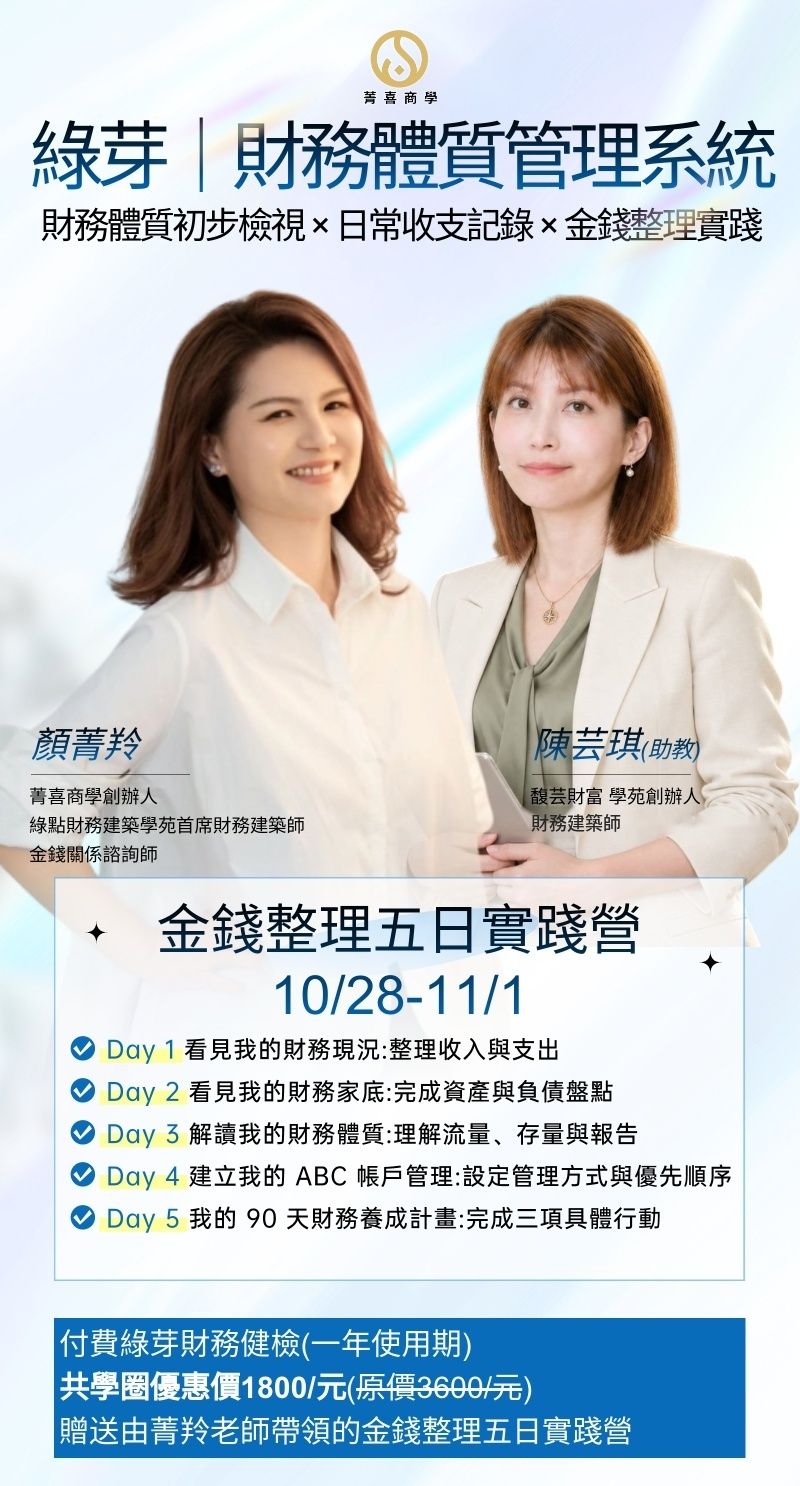
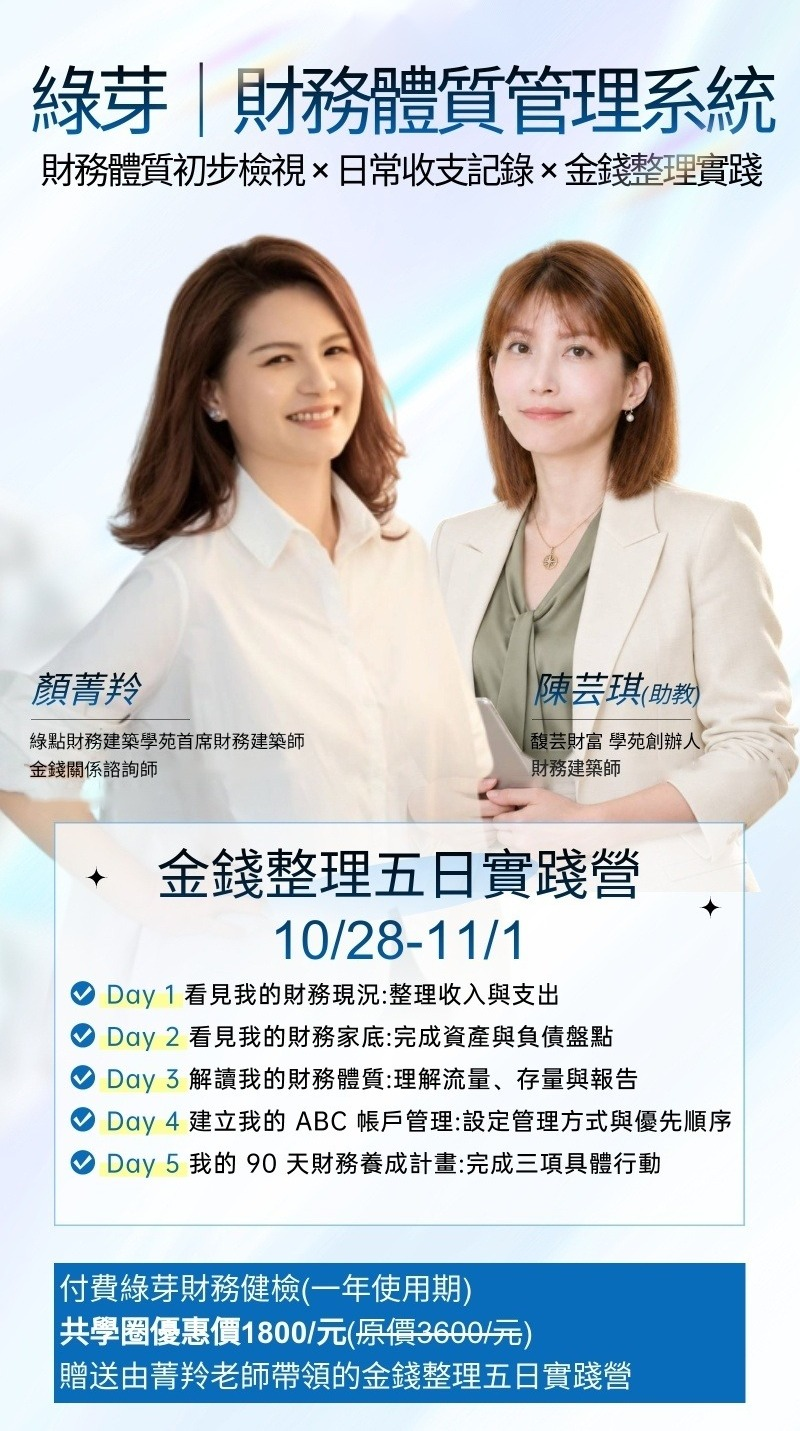
綠芽報名頁：電腦版雙欄版面、專業色系、移除菁喜商學
Claude-Session: https://claude.ai/code/session_013G9kf4SW9SDVPWkSK1dY9N

diff --git a/greensprout/index.html b/greensprout/index.html
@@ -10,48 +10,67 @@
 <meta property="og:description" content="共學圈優惠價 NT$1,800（原價 NT$3,600），再贈送《金錢整理五日實踐營》10/28–11/1。傳「綠芽」給芸琪，領優惠碼 🌱">
 <meta property="og:image" content="https://angie26501-lgtm.github.io/business/greensprout/poster.jpg">
 <meta property="og:url" content="https://angie26501-lgtm.github.io/business/greensprout/">
-<meta name="theme-color" content="#1f4e79">
+<meta name="theme-color" content="#17375e">
 <style>
-:root{--navy:#1b3f66;--blue:#1f6fb2;--sky:#eaf3fb;--g:#2f6b3f;--gl:#e8f3ea;--cream:#fbfaf6;--gold:#c99a3f;--line:#06c755;--ink:#22303c;--mut:#667684;--r:18px}
+:root{--navy:#17375e;--blue:#25507f;--sky:#eef2f7;--g:#2e6e52;--gl:#e9f1ec;--cream:#f7f5ef;--gold:#b08a3e;--line:#1f8a52;--lined:#16683d;--ink:#1f2a36;--mut:#5f6b78;--bd:#e2e7ee;--r:16px}
 *{box-sizing:border-box}
 html{scroll-behavior:smooth}
-body{margin:0;background:linear-gradient(180deg,#f2f7fc 0,#fbfaf6 520px);color:var(--ink);font-family:"Noto Sans TC","PingFang TC","Microsoft JhengHei",system-ui,sans-serif;line-height:1.7;-webkit-text-size-adjust:100%;padding-bottom:92px}
+body{margin:0;background:#f3f5f8;color:var(--ink);font-family:"Noto Sans TC","PingFang TC","Microsoft JhengHei",system-ui,sans-serif;line-height:1.7;-webkit-text-size-adjust:100%;padding-bottom:92px}
 .wrap{max-width:600px;margin:0 auto;padding:0 16px}
 .poster{display:block;width:100%;height:auto;border-radius:0 0 22px 22px;box-shadow:0 10px 30px rgba(27,63,102,.15)}
 @media (min-width:640px){.poster{border-radius:22px;margin-top:16px}}
-.card{background:#fff;border-radius:var(--r);padding:20px;margin-top:16px;box-shadow:0 4px 18px rgba(27,63,102,.08)}
+.page{max-width:600px;margin:0 auto}
+.side .side-btn{display:none}
+@media (min-width:640px){.poster{max-width:600px;margin:16px auto 0}}
+@media (min-width:960px){
+ body{padding-bottom:40px}
+ .page{max-width:1120px;display:grid;grid-template-columns:400px minmax(0,1fr);gap:32px;padding:24px 24px 0;align-items:start}
+ .side{position:sticky;top:24px}
+ .poster{margin:0 auto;border-radius:16px;width:auto;max-width:100%;max-height:calc(100vh - 130px);box-shadow:0 8px 24px rgba(23,55,94,.14)}
+ .side .side-btn{display:block;margin-top:14px;font-size:17px;padding:14px;box-shadow:0 4px 0 var(--lined)}
+ .wrap{max-width:none;padding:0}
+ .wrap>.card:first-child{margin-top:0}
+ .bar{display:none}
+ .page .feat{grid-template-columns:1fr 1fr;max-width:440px}
+ .strip{display:grid;grid-template-columns:repeat(4,1fr);overflow:visible;margin:12px 0 0;padding:0}
+ .steps div{font-size:14.5px}
+ .price .now{font-size:48px}
+}
+@media (min-width:1200px){.page{grid-template-columns:440px minmax(0,1fr);gap:40px}}
+
+.card{background:#fff;border:1px solid var(--bd);border-radius:var(--r);padding:22px;margin-top:16px;box-shadow:0 2px 10px rgba(23,55,94,.05)}
 h2{font-size:21px;line-height:1.4;margin:0 0 12px;color:var(--navy)}
-.kicker{display:inline-block;font-size:13px;font-weight:700;color:var(--blue);background:var(--sky);border-radius:20px;padding:2px 12px;margin-bottom:8px}
+.kicker{display:inline-block;font-size:12.5px;font-weight:700;letter-spacing:.08em;color:var(--gold);border-bottom:1.5px solid var(--gold);padding:0 0 2px;margin-bottom:10px}
 .price{display:flex;align-items:baseline;gap:10px;flex-wrap:wrap}
 .price .now{font-size:42px;font-weight:900;color:var(--navy);line-height:1.1}
 .price .now small{font-size:16px;font-weight:700}
 .price .old{color:var(--mut);text-decoration:line-through}
 .sub{color:var(--mut);margin:6px 0 0}
-.gift{margin-top:14px;background:#fff7e8;border:1.5px dashed var(--gold);border-radius:14px;padding:12px 14px}
-.gift b{color:#946512}
+.gift{margin-top:16px;background:var(--cream);border-left:4px solid var(--gold);border-radius:4px 12px 12px 4px;padding:12px 16px}
+.gift b{color:var(--navy)}
 .days{list-style:none;padding:0;margin:0}
 .days li{display:flex;gap:12px;padding:10px 0;border-bottom:1px solid #edf1f5}
 .days li:last-child{border:0}
-.days .d{flex:0 0 58px;height:28px;border-radius:14px;background:var(--blue);color:#fff;font-weight:700;font-size:13px;display:flex;align-items:center;justify-content:center;margin-top:2px}
+.days .d{flex:0 0 58px;height:28px;border-radius:6px;background:var(--navy);color:#fff;font-weight:700;font-size:13px;display:flex;align-items:center;justify-content:center;margin-top:2px}
 .days b{display:block}.days span{color:var(--mut);font-size:14px}
 .team{display:grid;grid-template-columns:1fr 1fr;gap:10px}
-.team div{background:var(--sky);border-radius:14px;padding:12px}
-.team b{font-size:17px;color:var(--navy)}.team em{font-style:normal;font-size:12px;color:var(--blue);margin-left:4px}
+.team div{background:var(--sky);border-radius:12px;padding:12px 14px;border-left:3px solid var(--navy)}
+.team b{font-size:17px;color:var(--navy)}.team em{font-style:normal;font-size:12px;color:var(--gold);margin-left:6px;font-weight:700}
 .team p{margin:4px 0 0;font-size:13px;color:var(--mut);line-height:1.55}
-.cta{background:linear-gradient(160deg,#1f4e79,#163a5c);color:#fff;text-align:center}
+.cta{background:linear-gradient(160deg,#1d4470,#132c4a);color:#fff;text-align:center;border:0}
 .cta h2{color:#fff}
 .cta p{margin:0 0 4px;opacity:.92}
 .btn{display:block;width:100%;text-align:center;text-decoration:none;font-weight:900;font-size:19px;line-height:1.35;border:0;border-radius:16px;padding:17px 12px;cursor:pointer;font-family:inherit}
-.btn.line{background:var(--line);color:#fff;box-shadow:0 6px 0 #04913f;margin-top:16px}
-.btn.line:active{transform:translateY(3px);box-shadow:0 3px 0 #04913f}
+.btn.line{background:var(--line);color:#fff;box-shadow:0 5px 0 var(--lined);margin-top:16px}
+.btn.line:active{transform:translateY(3px);box-shadow:0 2px 0 var(--lined)}
 .btn.line small{display:block;font-size:13px;font-weight:500;opacity:.95}
 .steps{display:grid;grid-template-columns:repeat(3,1fr);gap:8px;margin-top:16px;text-align:left}
-.steps div{background:rgba(255,255,255,.1);border-radius:12px;padding:10px;font-size:13.5px;line-height:1.5}
-.steps i{display:flex;width:24px;height:24px;border-radius:50%;background:#fff;color:var(--navy);font-style:normal;font-weight:900;align-items:center;justify-content:center;margin-bottom:6px;font-size:13px}
+.steps div{background:rgba(255,255,255,.08);border:1px solid rgba(255,255,255,.12);border-radius:12px;padding:10px;font-size:13.5px;line-height:1.5}
+.steps i{display:flex;width:24px;height:24px;border-radius:50%;background:var(--gold);color:#fff;font-style:normal;font-weight:900;align-items:center;justify-content:center;margin-bottom:6px;font-size:13px}
 .copyk{margin-top:12px;background:transparent;border:1.5px solid rgba(255,255,255,.6);color:#fff;border-radius:12px;padding:8px 14px;font-family:inherit;font-size:15px;font-weight:700;cursor:pointer}
 .vids h2{margin-bottom:4px}
 .feat{display:grid;grid-template-columns:1fr 1fr;gap:10px;margin-top:12px}
-.v{position:relative;border-radius:14px;overflow:hidden;background:#0f2236;aspect-ratio:9/16;cursor:pointer}
+.v{position:relative;border-radius:12px;overflow:hidden;background:#0f2236;aspect-ratio:9/16;cursor:pointer}
 .v img,.v video{position:absolute;inset:0;width:100%;height:100%;object-fit:cover;display:block}
 .v .play{position:absolute;left:50%;top:50%;width:58px;height:58px;margin:-29px 0 0 -29px;border-radius:50%;background:rgba(255,255,255,.92);box-shadow:0 4px 14px rgba(0,0,0,.3)}
 .v .play:after{content:"";position:absolute;left:23px;top:17px;border-left:18px solid var(--navy);border-top:12px solid transparent;border-bottom:12px solid transparent}
@@ -76,7 +95,9 @@ footer b{color:var(--navy);font-size:15px}
 </style>
 </head>
 <body>
-<img class="poster" src="poster.jpg" width="800" height="1486" alt="綠芽｜財務體質管理系統・金錢整理五日實踐營 10/28–11/1・共學圈優惠價 1800 元（原價 3600 元）">
+<div class="page">
+<aside class="side"><img class="poster" src="poster.jpg" width="800" height="1431" alt="綠芽｜財務體質管理系統・金錢整理五日實踐營 10/28–11/1・共學圈優惠價 1800 元（原價 3600 元）">
+<a class="btn line side-btn" href="https://lin.ee/8ipLGMe" target="_blank" rel="noopener">傳「綠芽」給芸琪，領優惠碼</a></aside>
 <div class="wrap">
 
   <section class="card">
@@ -97,7 +118,7 @@ footer b{color:var(--navy);font-size:15px}
       <li><span class="d">Day 5</span><div><b>我的 90 天財務養成計畫</b><span>完成三項具體行動</span></div></li>
     </ul>
     <div class="team" style="margin-top:14px">
-      <div><b>顏菁羚</b><em>帶領</em><p>菁喜商學創辦人<br>首席財務建築師<br>金錢關係諮詢師</p></div>
+      <div><b>顏菁羚</b><em>帶領</em><p>首席財務建築師<br>金錢關係諮詢師</p></div>
       <div><b>陳芸琪</b><em>助教</em><p>馥芸財富學苑創辦人<br>家族傳承生活顧問<br>財務建築師</p></div>
     </div>
   </section>
@@ -147,6 +168,7 @@ footer b{color:var(--navy);font-size:15px}
   <footer><b>馥芸財富學苑・財顧芸｜陳芸琪</b><br>家族傳承生活顧問</footer>
 </div>
 
+</div>
 <div class="bar" id="bar"><a class="btn line" href="https://lin.ee/8ipLGMe" target="_blank" rel="noopener">傳「綠芽」給芸琪，領優惠碼</a></div>
 <div class="toast" id="toast">已複製「綠芽」✓ 到 LINE 貼上送出就好</div>
 <script>
